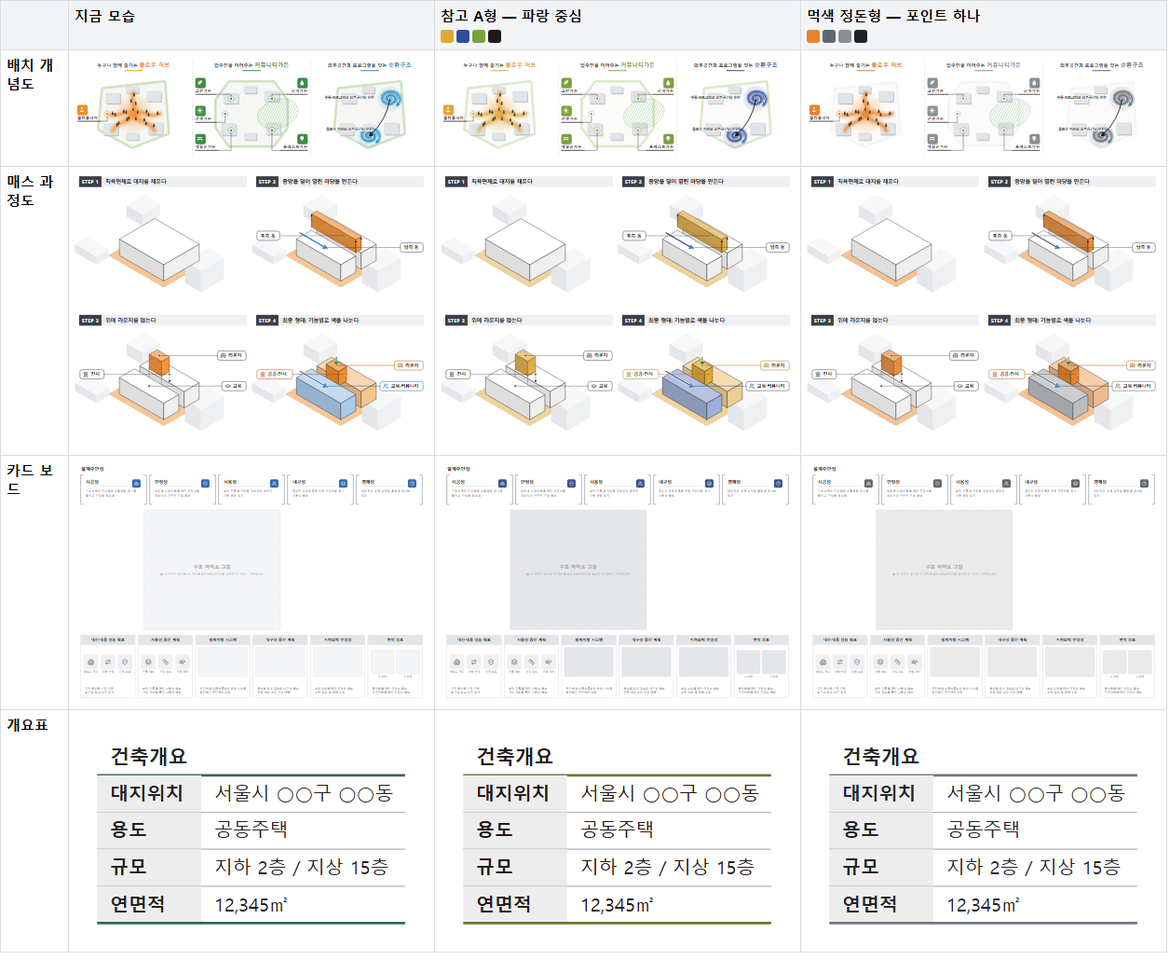
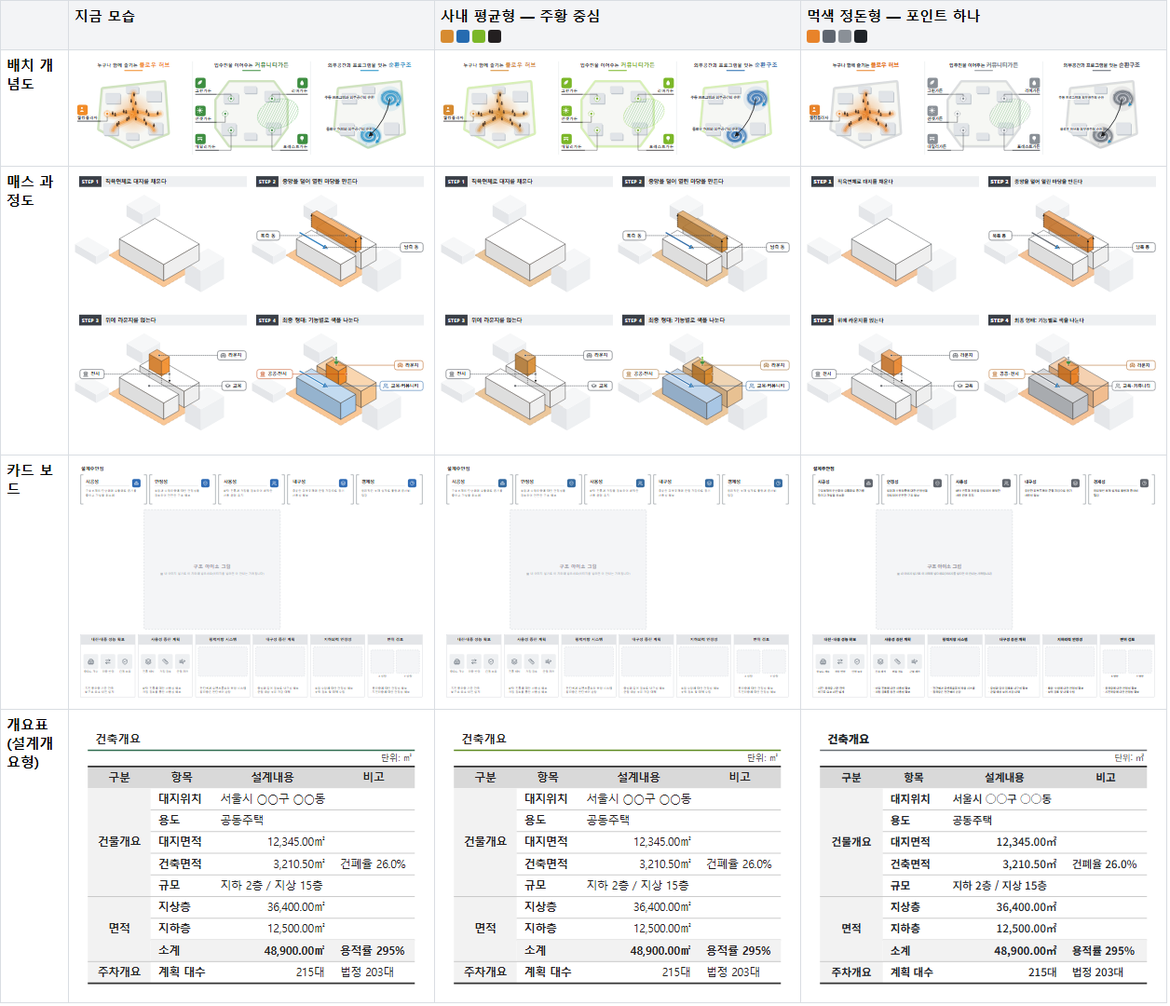
[Auto-Backup] 2026-10-26 16:20:53 KST - 11 files changed

diff --git a/src/conceptDiagram/svgedit.js b/src/conceptDiagram/svgedit.js
@@ -17,6 +17,7 @@ import { dimSvg, DIM_COLOR, DIM_DEFAULT_TEXT } from './dim';
 import { ICON_NAMES, CHIP_SHAPES, iconChipSvg } from './icons';
 import { normalizeTable, tableSvg, tableLayout, SAMPLE_TABLE, TABLE_COLOR } from './table';
 import { imageFx } from './imgfx';
+import { applyTheme } from './theme';
 import { northSvg, scaleBarSvg, normalizeScale, scaleBarHeight, NORTH_STYLES, SYMBOL_COLOR } from './symbols';
 
 const LEAF = new Set(['path', 'line', 'polyline', 'polygon', 'rect', 'circle', 'ellipse', 'text']);
@@ -104,10 +105,10 @@ export function rawSetText(sh, text) {
   });
   return { ...sh, el };
 }
-export function appendShapes(svg, shapes) {
+export function appendShapes(svg, shapes, themer) {
   if (!shapes || !shapes.length) return svg;
   const end = svg.lastIndexOf('</svg>'); if (end < 0) return svg;
-  return svg.slice(0, end) + shapes.map(shapeSvg).join('') + svg.slice(end);
+  return svg.slice(0, end) + shapes.map(shapeSvg).map((x) => (themer ? themer(x) : x)).join('') + svg.slice(end);
 }
 // 화면 한가운데(box=[x,y,w,h])에 놓을 새 도형의 기본값
 export function newShape(kind, box, scale = 1) {
@@ -167,12 +168,13 @@ const tableTag = (a, interactive) => tableSvg(tableOf(a), { id: a.id, interactiv
 const northTag = (a, interactive) => northSvg({ cx: a.x + a.w / 2, cy: a.y + a.w / 2, size: a.w, color: a.fill, rot: a.rot || 0, style: NORTH_STYLES.includes(a.style) ? a.style : 'circle', id: a.id, interactive });
 const scaleTag = (a, interactive) => scaleBarSvg({ x: a.x, y: a.y, w: a.w, segs: a.segs, total: a.total, unit: a.unit, size: a.size || 14, color: a.fill, id: a.id, interactive });
 const addTag = (a, interactive) => a.kind === 'dim' ? dimTag(a, interactive) : a.kind === 'north' ? northTag(a, interactive) : a.kind === 'scale' ? scaleTag(a, interactive) : a.kind === 'badge' ? badgeTag(a, interactive) : a.kind === 'callout' ? calloutTag(a, interactive) : a.kind === 'icon' ? iconTag(a, interactive) : a.kind === 'table' ? tableTag(a, interactive) : imgTag(a, interactive);
-function insertAdds(svg, _els, adds, interactive) {
+function insertAdds(svg, _els, adds, interactive, themer) {
   if (!adds || !adds.length) return svg;
   const valid = adds.filter((a) => a && ((a.href && a.kind === 'image') || a.kind === 'badge' || a.kind === 'callout' || a.kind === 'dim' || a.kind === 'icon' || a.kind === 'table' || a.kind === 'north' || a.kind === 'scale'));
   if (!valid.length) return svg;
-  const back = valid.filter((a) => a.behind).map((a) => addTag(a, interactive)).join('');
-  const front = valid.filter((a) => !a.behind).map((a) => addTag(a, interactive)).join('');
+  const tag = (a) => { const x = addTag(a, interactive); return themer ? themer(x) : x; };
+  const back = valid.filter((a) => a.behind).map(tag).join('');
+  const front = valid.filter((a) => !a.behind).map(tag).join('');
   let out = svg;
   const end = out.lastIndexOf('</svg>');
   if (front && end >= 0) out = out.slice(0, end) + front + out.slice(end);
@@ -203,17 +205,20 @@ export function opTransformStr(op) {
 }
 
 // 고친 내용을 그림에 입힌다. opts.ids 가 참이면 편집 화면용: 요소마다 data-eid 를 달고, 얇은 선에는 눌리기 쉽게 보이지 않는 굵은 선을 덧댄다.
+// opts.theme(스타일 안 id): 내가 새로 넣거나 복사해 붙인 도형(shapes)·부속(adds)에도 같은 안의 색·글꼴을 입힌다. 그림 본체는 호출한 쪽이 이미 입혀서 넘긴다(렌더 → 안 → 수정 순서).
+// opts.orig: 편집 화면용 — 안이 입혀진 곳마다 원래 값을 data-o-* 로 남긴다(theme.js 의 restoreOriginals 로 되돌림).
 // 반환: { svg, ok(구조가 같아 적용했는가), sig, els }
 export function applyEdits(svg0, edits, opts = {}) {
   const baseScan = scanSvg(svg0); const sig = baseScan.sig; const baseLeaf = baseScan.els.filter((e) => e.kind === 'e').length;
   const shapes = edits && edits.shapes && edits.shapes.length ? edits.shapes : null;
-  const svg = shapes ? appendShapes(svg0, shapes) : svg0;                // 내가 그린 도형은 맨 끝에 붙여 다른 요소 번호가 바뀌지 않게 한다
+  const themer = opts.theme ? (x) => applyTheme(x, opts.theme, { orig: !!opts.orig }) : null;
+  const svg = shapes ? appendShapes(svg0, shapes, themer) : svg0;        // 내가 그린 도형은 맨 끝에 붙여 다른 요소 번호가 바뀌지 않게 한다
   const els = shapes ? scanSvg(svg).els : baseScan.els;
   const ok = !edits || edits.sig === undefined || edits.sig === sig;
   const ops = ok && edits ? edits.ops || {} : {};
   const interactive = !!opts.ids;
   const adds = edits && edits.adds && edits.adds.length ? edits.adds : null;
-  if (!interactive && !Object.keys(ops).length) return { svg: insertAdds(svg, els, adds, false), ok, sig, els, baseLeaf };
+  if (!interactive && !Object.keys(ops).length) return { svg: insertAdds(svg, els, adds, false, themer), ok, sig, els, baseLeaf };
   let out = ''; let pos = 0;
   for (const el of els) {
     const op = ops[el.id];
@@ -231,6 +236,7 @@ export function applyEdits(svg0, edits, opts = {}) {
       attrs['data-eid'] = el.id;
       if (el.self && ['line', 'path', 'polyline'].includes(tag) && !(op && op.del)) { // 눌리기 쉽게: 같은 모양의 투명한 굵은 선
         const hit = { ...attrs, fill: 'none', stroke: 'transparent', 'stroke-width': '12', 'stroke-dasharray': null, 'stroke-linecap': 'round', 'pointer-events': 'stroke', 'data-hit': '1', 'marker-start': null, 'marker-end': null, 'marker-mid': null, opacity: null };
+        Object.keys(hit).forEach((k) => { if (k.startsWith('data-o-')) delete hit[k]; }); // 원래 색 표시는 눌림용 투명 선에 옮기지 않는다(복원 때 투명이 풀리지 않게)
         extra = buildTag(tag, hit, true);
       }
     }
@@ -241,7 +247,7 @@ export function applyEdits(svg0, edits, opts = {}) {
     }
   }
   out += svg.slice(pos);
-  return { svg: insertAdds(out, els, adds, interactive), ok, sig, els, baseLeaf };
+  return { svg: insertAdds(out, els, adds, interactive, themer), ok, sig, els, baseLeaf };
 }
 
 // ── 고친 내용 만들기(불변) ──

diff --git a/src/ConceptDiagram.jsx b/src/ConceptDiagram.jsx
@@ -322,9 +322,12 @@ export default function ConceptDiagram({ active = true, addToast, apiFetch }) {
   const rendered = useMemo(() => {
     if (!result) return null;
     try {
-      const r = renderThemed(result.type, result.spec, result.baseImage ? { baseImage: result.baseImage } : undefined, pg.theme); // 안(스타일)은 그린 직후에 입힌다 — 손으로 고친 내용(edits)은 그 위에 덮인다
-      if (result.type !== 'sketch' && hasEdits(result.edits)) return { ...r, svg: applyEdits(r.svg, result.edits).svg, baseSvg: r.svg, error: null }; // 구조형 결과: 도형을 손으로 고친 내용(색·위치·곡선·선 종류)
-      return { ...r, error: null };
+      const r0 = renderSpec(result.type, result.spec, result.baseImage ? { baseImage: result.baseImage } : undefined);
+      const themed = !!pg.theme && pg.theme !== 'current';
+      const r = themed ? { ...r0, svg: applyTheme(r0.svg, pg.theme) } : r0; // 안(스타일)은 그린 직후에 입힌다 — 손으로 고친 내용(edits)은 그 위에 덮인다
+      const editBase = themed && result.type !== 'sketch' ? applyTheme(r0.svg, pg.theme, { orig: true }) : undefined; // 편집 화면용: 안이 입혀진 곳마다 원래 값 표시(data-o-*)를 남긴다(복사한 요소가 원래 색으로 돌아가도록)
+      if (result.type !== 'sketch' && hasEdits(result.edits)) return { ...r, svg: applyEdits(r.svg, result.edits, { theme: pg.theme }).svg, baseSvg: r.svg, editBase, error: null }; // 구조형 결과: 도형을 손으로 고친 내용(색·위치·곡선·선 종류). 내가 넣은 도형·부속에도 같은 안을 입힌다
+      return { ...r, ...(editBase ? { editBase } : {}), error: null };
     } catch (e) { return { svg: '', width: 0, height: 0, error: e.message }; }
   }, [result, pg.theme]); // eslint-disable-line react-hooks/exhaustive-deps
 
@@ -606,7 +609,7 @@ export default function ConceptDiagram({ active = true, addToast, apiFetch }) {
         else if (r.type === 'site') spec.cols = bestCols(Math.max(1, (spec.panels || []).length), aspect, SITE_PANEL_W, SITE_PANEL_H, 3);
         else if (r.type === 'massing') spec.cols = bestCols(Math.max(1, (spec.steps || []).length), aspect, MASSING_PANEL_W, MASSING_PANEL_H, 3);
         const eng = renderThemed(r.type, spec, r.baseImage ? { baseImage: r.baseImage } : undefined, tid);
-        return { id, render: { svg: edited ? applyEdits(eng.svg, r.edits).svg : eng.svg }, caption: edited ? '' : (r.spec?.title || ''), cropTop: r.type === 'sketch' ? sketchContentTop(spec) : 0, crop: Array.isArray(r.crop) ? r.crop : null };
+        return { id, render: { svg: edited ? applyEdits(eng.svg, r.edits, { theme: tid }).svg : eng.svg }, caption: edited ? '' : (r.spec?.title || ''), cropTop: r.type === 'sketch' ? sketchContentTop(spec) : 0, crop: Array.isArray(r.crop) ? r.crop : null };
       });
       const preview = composePage(page, items, { ...base, preview: true, selected: selCell });
       const out = wantOut ? composePage(page, items, base) : null; // 저장용(칸 테두리·빈 칸 표시 없음)
@@ -623,7 +626,7 @@ export default function ConceptDiagram({ active = true, addToast, apiFetch }) {
       if (pageOn) { const o = composeAll(pg.layoutId, pg.custom, true, null, id)?.out; return o ? { svg: o.svg, w: o.width, h: o.height } : null; }
       if (!result) return null;
       const r = renderThemed(result.type, result.spec, result.baseImage ? { baseImage: result.baseImage } : undefined, id);
-      return { svg: result.type !== 'sketch' && hasEdits(result.edits) ? applyEdits(r.svg, result.edits).svg : r.svg, w: r.width, h: r.height };
+      return { svg: result.type !== 'sketch' && hasEdits(result.edits) ? applyEdits(r.svg, result.edits, { theme: id }).svg : r.svg, w: r.width, h: r.height };
     } catch { return null; }
   };
   const themeThumbs = useMemo(() => (themeOpen ? Object.fromEntries(THEMES.map((t) => [t.id, thumbFor(t.id)])) : {}), [themeOpen, result, pageOn, pg, cells]); // eslint-disable-line react-hooks/exhaustive-deps
@@ -1711,7 +1714,7 @@ export default function ConceptDiagram({ active = true, addToast, apiFetch }) {
           )}
           {result?.type !== 'sketch' && rendered?.svg && (
             <div data-testid="inline-view" onPointerDownCapture={() => { ctxRef.current = 'sketch'; }}>
-              <SvgEditor sideHost={leftHidden ? null : sideHost} sideOpen={leftTab === 'shape'} onOpenSide={() => setLeftTab('shape')} onPick={() => setLeftTab('shape')} onCopy={onEditorCopy} pasteSignal={pasteSig} onAddImageClick={() => myImgFileRef.current?.click()} ptInfo={ptInfoOf(pageModel)} svg={rendered.baseSvg || rendered.svg} edits={result.edits} onEdits={onSvgEdits} fields={fields} maxWidth={rendered.width} disabled={busy || reading}
+              <SvgEditor sideHost={leftHidden ? null : sideHost} sideOpen={leftTab === 'shape'} onOpenSide={() => setLeftTab('shape')} onPick={() => setLeftTab('shape')} onCopy={onEditorCopy} pasteSignal={pasteSig} onAddImageClick={() => myImgFileRef.current?.click()} ptInfo={ptInfoOf(pageModel)} svg={rendered.editBase || rendered.baseSvg || rendered.svg} themeId={pg.theme} edits={result.edits} onEdits={onSvgEdits} fields={fields} maxWidth={rendered.width} disabled={busy || reading}
                 shortcutsEnabled={() => (!pageOn || ctxRef.current !== 'page') && !themeOpen}
                 onTextEdit={(f, v) => { const h = textHist.current; h.past = [...h.past.slice(-49), { ver: result.ver, spec: result.spec, edits: result.edits }]; h.future = []; setResult((r) => ({ ...r, spec: setByPath(r.spec, f.path, v), isReadPreview: false })); }}
                 onMiss={() => addToast?.('info', '이 글자는 자동으로 만들어진 글자라 여기서 바로 고칠 수 없습니다', '왼쪽 “글자 수정” 목록에서 고칠 수 있는 글자인지 확인해 보세요.')} />

diff --git a/src/SvgEditor.jsx b/src/SvgEditor.jsx
@@ -2,6 +2,7 @@ import React, { useCallback, useEffect, useLayoutEffect, useMemo, useRef, useSta
 import { createPortal } from 'react-dom';
 import { applyEdits, hasEdits, editReplaceImage, editCropImage, editUpdateAdd, editRemoveAdd, editAddShape, editUpdateShape, editRemoveShape, newShape, rawShift, rawSetText, editSet, editMove, editMoveTo, editDelete, editRestore, editAsPath, editTranslate, editScale, editLineSpacing, LH_MIN, LH_MAX, addScalePatch, SCALE_MIN, SCALE_MAX, DASH_PRESETS, DASH_GAP_MIN, DASH_GAP_MAX, dashKind, dashNumsEven, dashSameParts, dashGapFactor, dashScaled, dashPatch, parsePath, pathD, pathNodes, pathMoveNode, pathMoveCtrl, pathToggleCurve, pathAddNode, pathDelNode, parsePoints, pointsStr, lineToCurveD } from './conceptDiagram/svgedit';
 import { normText, pickByText, responsiveSvg } from './conceptDiagram/inlineText';
+import { restoreOriginals } from './conceptDiagram/theme';
 import { textAtPoint, InlineInput, textUnitSize, PtReadout } from './InlineText';
 import { schedulePaste, markInternalCopy } from './conceptDiagram/clip';
 import { readImageFile, bakeCrop, imageSize } from './conceptDiagram/imgio';
@@ -54,8 +55,8 @@ function Colors({ value, onChange, none, onNone }) {
 
 let SV_CLIP = null; let SV_PASTE_N = 0; // 복사해 둔 요소(다른 칸의 그림에도 붙일 수 있게 모듈에 둔다)와 연속 붙여넣기 횟수
 
-export default function SvgEditor({ svg, edits, onEdits, fields, onTextEdit, onMiss, maxWidth, disabled, shortcutsEnabled, ptInfo, onAddImageClick, onCopy, pasteSignal, sideHost, sideOpen, onOpenSide, onPick }) {
-  const view = useMemo(() => applyEdits(svg, edits, { ids: true }), [svg, edits]);
+export default function SvgEditor({ svg, themeId, edits, onEdits, fields, onTextEdit, onMiss, maxWidth, disabled, shortcutsEnabled, ptInfo, onAddImageClick, onCopy, pasteSignal, sideHost, sideOpen, onOpenSide, onPick }) {
+  const view = useMemo(() => applyEdits(svg, edits, { ids: true, theme: themeId, orig: true }), [svg, edits, themeId]); // 안(스타일)을 따라가는 도형·부속에는 원래 색 표시(data-o-*)를 남긴다(복사 때 되돌림)
   const html = useMemo(() => ({ __html: responsiveSvg(view.svg) }), [view.svg]); // 같은 객체여야 React 가 그림을 매번 다시 만들지 않는다(다시 만들면 표시·마우스 올림이 사라진다)
   const E = useMemo(() => (edits && edits.sig === view.sig ? edits : { sig: view.sig, ops: {}, ...(edits?.adds ? { adds: edits.adds } : {}), ...(edits?.shapes ? { shapes: edits.shapes } : {}) }), [edits, view.sig]); // 구조가 달라져도 내가 넣은 이미지는 남긴다
   const stale = !!edits && edits.sig !== view.sig && hasEdits(edits);
@@ -535,12 +536,17 @@ export default function SvgEditor({ svg, edits, onEdits, fields, onTextEdit, onM
     if (m.isIdentity) c.removeAttribute('transform'); else c.setAttribute('transform', `matrix(${[m.a, m.b, m.c, m.d, m.e, m.f].map((v) => Math.round(v * 10000) / 10000).join(' ')})`);
     const st = getComputedStyle(el0); const tg = el0.tagName.toLowerCase();
     const bake = (a, v) => { if (!c.hasAttribute(a) && v !== '' && v != null) c.setAttribute(a, v); };
-    bake('fill', st.fill === 'none' ? 'none' : hexOf(st.fill)); if (tg !== 'text') { bake('stroke', st.stroke === 'none' ? 'none' : hexOf(st.stroke)); if (st.stroke !== 'none') { bake('stroke-width', String(num(st.strokeWidth, 1))); if (st.strokeDasharray && st.strokeDasharray !== 'none') bake('stroke-dasharray', st.strokeDasharray.replace(/px/g, '').replace(/,/g, ' ')); bake('stroke-linecap', st.strokeLinecap); } }
+    const inherited = (a, v) => { // 안이 입혀진 조상에게서 물려받은 값이면 입혀지기 전 값으로(붙여넣은 뒤 안이 한 번 더 입혀지지 않게)
+      if (c.hasAttribute(a)) return v;
+      for (let n = el0.parentNode; n && n.nodeType === 1 && n.nodeName.toLowerCase() !== 'svg'; n = n.parentNode) { if (n.hasAttribute(a)) { const o = n.getAttribute(`data-o-${a}`); return o != null ? o : v; } }
+      return v;
+    };
+    bake('fill', st.fill === 'none' ? 'none' : inherited('fill', hexOf(st.fill))); if (tg !== 'text') { bake('stroke', st.stroke === 'none' ? 'none' : inherited('stroke', hexOf(st.stroke))); if (st.stroke !== 'none') { bake('stroke-width', String(num(st.strokeWidth, 1))); if (st.strokeDasharray && st.strokeDasharray !== 'none') bake('stroke-dasharray', st.strokeDasharray.replace(/px/g, '').replace(/,/g, ' ')); bake('stroke-linecap', st.strokeLinecap); } }
     if (st.opacity !== '1') bake('opacity', st.opacity);
     if (tg === 'text') { bake('font-family', st.fontFamily); bake('font-size', String(num(st.fontSize, 14))); bake('font-weight', st.fontWeight); bake('text-anchor', st.textAnchor); }
     const defs = []; let k = 0;
     [...c.attributes].forEach((a) => { const mm = /url\(["']?#([^"')]+)["']?\)/.exec(a.value); if (!mm) return; const def = root.querySelector(`[id="${mm[1]}"]`); if (!def) return; const nid = `cp${Date.now().toString(36)}${k++}_${mm[1]}`; const dc = def.cloneNode(true); dc.setAttribute('id', nid); defs.push(dc.outerHTML); c.setAttribute(a.name, a.value.replace(mm[1], nid)); });
-    return { kind: 'raw', defs: defs.length ? `<defs>${defs.join('')}</defs>` : '', el: c.outerHTML };
+    return { kind: 'raw', defs: defs.length ? restoreOriginals(`<defs>${defs.join('')}</defs>`, themeId) : '', el: restoreOriginals(c.outerHTML, themeId) };
   };
   const copySel = () => {
     const items = [];

diff --git a/src/SketchEditor.jsx b/src/SketchEditor.jsx
@@ -583,7 +583,7 @@ export default function SketchEditor({ spec, onChange, disabled, shortcutsEnable
           <div style={sec}>
             <span style={title}>전체</span>
             <button style={smallBtn(false)} onClick={selectAllText} disabled={norm.memos.filter(isPlainMemo).length < 2} data-testid="sk-select-text" title="그림 속 일반 글자를 모두 골라 크기·글씨체·정렬을 한꺼번에 바꿉니다">글자 모두 선택</button>
-            <p style={{ fontSize: 11, color: 'var(--text-tertiary, #64748b)', margin: 0, lineHeight: 1.6 }}>그림의 화살표·선·도형·글자를 <b>클릭</b>하면 여기서 속성을 바꿀 수 있고, <b>Shift·Ctrl+클릭</b>으로 여러 개를 고르거나 빈 곳을 <b>끌어</b> 상자로 고를 수 있고, <b>끌어서 옮길</b> 수 있습니다. 선택하면 나타나는 <b>네모 점은 크기</b>, <b>동그라미는 화살표 끝점</b>, <b>큰 마름모는 S자 변곡점(자유롭게 이동)</b>, <b>작은 빈 마름모는 휘는 정도</b> 조절입니다.<br />Shift: 수평·수직 고정 · Alt: 자석 끄기 · 방향키: 미세 이동<br /><b>안내선</b>: 끌면 다른 요소의 변·가운데선, 그림 가운데, 좌우·상하 <b>대칭 위치</b>에 가까워질 때 안내선(분홍=정렬, 초록=중심축, 청록=대칭)이 뜨며 자동으로 붙습니다. 화살표 끝을 끌면 반대쪽 끝과 수평·수직으로 맞춰집니다.<br />Ctrl+C / Ctrl+V: 복사·붙여넣기 · Ctrl+D: 복제 · Ctrl+X: 잘라내기 · Delete: 삭제 · Ctrl+Z: 되돌리기</p>
+            <p style={{ fontSize: 11, color: 'var(--text-tertiary, #64748b)', margin: 0, lineHeight: 1.6 }}>그림의 화살표·선·도형·글자를 <b>클릭</b>하면 여기서 속성을 바꿀 수 있고, <b>Shift·Ctrl+클릭</b>으로 여러 개를 고르거나 빈 곳을 <b>끌어</b> 상자로 고를 수 있고, <b>끌어서 옮길</b> 수 있습니다. 선택하면 나타나는 <b>네모 점은 크기</b>, <b>동그라미는 화살표 끝점</b>, <b>큰 마름모는 S자 변곡점(자유롭게 이동)</b>, <b>작은 빈 마름모는 휘는 정도</b> 조절입니다.<br /><b>글자</b>(제목·부제·범례·핵심 메시지 포함)는 그림 위에서 <b>더블클릭</b>해 바로 고칩니다.<br />Shift: 수평·수직 고정 · Alt: 자석 끄기 · 방향키: 미세 이동<br /><b>안내선</b>: 끌면 다른 요소의 변·가운데선, 그림 가운데, 좌우·상하 <b>대칭 위치</b>에 가까워질 때 안내선(분홍=정렬, 초록=중심축, 청록=대칭)이 뜨며 자동으로 붙습니다. 화살표 끝을 끌면 반대쪽 끝과 수평·수직으로 맞춰집니다.<br />Ctrl+C / Ctrl+V: 복사·붙여넣기 · Ctrl+D: 복제 · Ctrl+X: 잘라내기 · Delete: 삭제 · Ctrl+Z: 되돌리기</p>
             <label style={{ ...lab, flexDirection: 'row', alignItems: 'center', gap: 6 }}><input type="checkbox" checked={norm.showLegend} onChange={(e) => setGlobal({ showLegend: e.target.checked })} />하단 범례 표시</label>
             <label style={{ ...lab, flexDirection: 'row', alignItems: 'center', gap: 6 }}><input type="checkbox" checked={norm.showNotes} onChange={(e) => setGlobal({ showNotes: e.target.checked })} />하단 핵심 메시지 표시</label>
             {norm.textBlock && (
@@ -594,16 +594,6 @@ export default function SketchEditor({ spec, onChange, disabled, shortcutsEnable
                 <div style={lab}>강조색<Colors value={norm.textBlock.accent} onChange={(c) => setGlobal({ textBlock: { ...norm.textBlock, accent: c } })} /></div>
               </div>
             )}
-            <label style={lab}>제목<input style={input} value={norm.title} onChange={(e) => setGlobal({ title: e.target.value }, 'title')} /></label>
-            <label style={lab}>부제<input style={input} value={norm.subtitle} onChange={(e) => setGlobal({ subtitle: e.target.value }, 'subtitle')} /></label>
-            <label style={lab}>범례: 화살표<input style={input} value={norm.legend.wind} onChange={(e) => setGlobal({ legend: { ...norm.legend, wind: e.target.value } }, 'lgw')} /></label>
-            <label style={lab}>범례: 개구부<input style={input} value={norm.legend.opening} onChange={(e) => setGlobal({ legend: { ...norm.legend, opening: e.target.value } }, 'lgo')} /></label>
-            <label style={lab}>범례: 코어<input style={input} value={norm.legend.core} onChange={(e) => setGlobal({ legend: { ...norm.legend, core: e.target.value } }, 'lgc')} /></label>
-            {[0, 1].map((i) => (
-              <label key={i} style={lab}>핵심 메시지 {i + 1}
-                <input style={input} value={norm.notes[i] || ''} onChange={(e) => { const n = [...norm.notes]; while (n.length < 2) n.push(''); n[i] = e.target.value; setGlobal({ notes: n.filter((t, k) => t || k < i) }, `note${i}`); }} />
-              </label>
-            ))}
           </div>
         )}
 

diff --git a/src/conceptDiagram/theme.js b/src/conceptDiagram/theme.js
@@ -2,10 +2,11 @@
 // 순수 함수(DOM 없음). 항상 '새로 그린 SVG' 에서 시작한다(이미 안이 입혀진 SVG 에 다시 입히지 않는다) — 호출 순서: renderSpec → applyTheme → applyEdits.
 import { ENGINE_FONT, fontCssOf } from './fonts';
 
+// 2026-10-26: 안 2번을 '참고 A형(파랑 중심)'에서 '사내 평균형(주황 중심)'으로 바꿨다(id blue → avg; 예전에 저장한 blue 는 모르는 값이라 current 로 동작).
 // a1 = 주황 계열 역할, a2 = 청·청록 계열 역할, a3 = 초록 계열 역할. ink = 아주 어두운 글자·선. fontId/ink 가 null 이면 건드리지 않는다.
 export const THEMES = [
   { id: 'current', label: '지금 모습', source: '', a1: null, a2: null, a3: null, ink: null, fontId: null, titleK: 1 },
-  { id: 'blue', label: '참고 A형 — 파랑 중심', source: '참고삽도 A형', a1: '#DFA837', a2: '#2F4E9A', a3: '#7BA23A', ink: '#231815', fontId: 'pretendard', titleK: 1.1 },
+  { id: 'avg', label: '사내 평균형 — 주황 중심', source: '사내 참고사례 PDF 728건의 포인트색 평균(주황 36%·파랑 24%·초록 18% 쓰임)', a1: '#D78B31', a2: '#266BB0', a3: '#7BB728', ink: '#231F20', fontId: 'pretendard', titleK: 1 },
   { id: 'mono', label: '먹색 정돈형 — 포인트 하나', source: '', a1: '#E8832A', a2: '#5F6670', a3: '#8A9097', ink: '#1F2328', fontId: 'noto', titleK: 1 },
 ];
 export const themeById = (id) => THEMES.find((t) => t.id === id) || THEMES[0];
@@ -42,16 +43,37 @@ function mapColor(hex, th) {
 }
 
 // 태그 단위로 훑어 fill·stroke·stop-color·flood-color 와 style 안의 #RRGGBB 만 바꾼다. 편집 손잡이(data-handle)·편집 표시(data-ui)·히트 영역 태그는 건드리지 않는다.
-export function applyTheme(svg, themeId) {
+// opts.orig 가 참이면(편집 화면용) 바뀐 태그마다 원래 값을 data-o-fill·data-o-stroke·data-o-stop-color·data-o-flood-color·data-o-style, 글꼴을 바꾼 태그에는 data-o-ff="1" 로 태그 끝에 남긴다.
+// 복사·붙여넣기한 요소(raw)를 만들 때 이 표시로 '안이 입혀지기 전의 값'을 되찾는다(restoreOriginals). 저장·내보내기용 그림에는 표시를 달지 않는다.
+const COLOR_ATTR = /\b(fill|stroke|stop-color|flood-color)="(#[0-9a-fA-F]{6})"/g;
+export function applyTheme(svg, themeId, opts = {}) {
   const th = themeById(themeId); const src = String(svg ?? '');
   if (th.id === 'current') return src;
+  const orig = !!opts.orig; const fontCss = th.fontId ? fontCssOf(th.fontId) : null;
   const swap = (v) => v.replace(/#[0-9a-fA-F]{6}\b/g, (c) => mapColor(c, th));
   let out = src.replace(/<[^>]+>/g, (tag) => {
     if (/data-handle=|data-ui=|class="hit"/.test(tag)) return tag;
-    return tag
-      .replace(/\b(fill|stroke|stop-color|flood-color)="(#[0-9a-fA-F]{6})"/g, (m0, k, v) => `${k}="${HEX.test(v) ? swap(v) : v}"`)
-      .replace(/\bstyle="([^"]*)"/g, (m0, v) => `style="${swap(v)}"`);
+    const marks = [];
+    let t = tag
+      .replace(COLOR_ATTR, (m0, k, v) => { const nv = HEX.test(v) ? swap(v) : v; if (orig && nv !== v) marks.push(`data-o-${k}="${v}"`); return `${k}="${nv}"`; })
+      .replace(/\bstyle="([^"]*)"/g, (m0, v) => { const nv = swap(v); if (orig && nv !== v) marks.push(`data-o-style="${v}"`); return `style="${nv}"`; });
+    if (fontCss && t.includes(ENGINE_FONT)) { t = t.split(ENGINE_FONT).join(fontCss); if (orig) marks.push('data-o-ff="1"'); }
+    return marks.length ? t.replace(/(\s*\/?>)$/, ` ${marks.join(' ')}$1`) : t;
   });
-  if (th.fontId) out = out.split(ENGINE_FONT).join(fontCssOf(th.fontId));
+  if (fontCss) out = out.split(ENGINE_FONT).join(fontCss); // 태그 밖(<style> 글 등)에 있는 글꼴 값
   return out;
+}
+
+// applyTheme(…, { orig: true }) 로 달린 원래 값 표시(data-o-*)를 써서 안이 입혀지기 전의 마크업으로 되돌리고 표시를 지운다. 표시가 없으면 그대로.
+export function restoreOriginals(markup, themeId) {
+  const src = String(markup ?? ''); if (!src.includes('data-o-')) return src;
+  const ff = themeById(themeId).fontId ? fontCssOf(themeById(themeId).fontId) : null;
+  return src.replace(/<[^>]+>/g, (tag) => {
+    if (!tag.includes('data-o-')) return tag;
+    const o = {}; let t = tag.replace(/\sdata-o-([a-z-]+)="([^"]*)"/g, (m0, k, v) => { o[k] = v; return ''; });
+    ['fill', 'stroke', 'stop-color', 'flood-color'].forEach((k) => { if (o[k] !== undefined) t = t.replace(new RegExp(String.raw`(\s)${k}="[^"]*"`), (m0, sp) => `${sp}${k}="${o[k]}"`); });
+    if (o.style !== undefined) t = t.replace(/(\s)style="[^"]*"/, (m0, sp) => `${sp}style="${o.style}"`);
+    if (o.ff !== undefined && ff) t = t.split(ff).join(ENGINE_FONT);
+    return t;
+  });
 }

diff --git a/src/ThemeCompare.jsx b/src/ThemeCompare.jsx
@@ -39,7 +39,7 @@ export default function ThemeCompare({ open, onClose, themeId, onPick, thumbs })
         <div style={{ display: 'flex', alignItems: 'center', justifyContent: 'space-between', gap: 12 }}>
           <div>
             <div id="theme-dialog-title" style={{ fontSize: 15, fontWeight: 700, color: 'var(--ink)' }}>스타일 안 비교</div>
-            <div style={{ fontSize: 12, color: 'var(--ink-soft)', marginTop: 2 }}>같은 그림을 안마다 색·글씨체·제목 크기(페이지 모드)만 바꿔 보여 줍니다. 눌러서 적용하고, “지금 모습”을 누르면 원래대로 돌아갑니다. 구조형 결과에서 직접 칠한 색과 손으로 고친 내용은 그대로 남고, 손스케치 결과는 직접 고른 색도 같은 계열이면 같이 바뀝니다.</div>
+            <div style={{ fontSize: 12, color: 'var(--ink-soft)', marginTop: 2 }}>같은 그림을 안마다 색·글씨체·제목 크기(페이지 모드)만 바꿔 보여 줍니다. 눌러서 적용하고, “지금 모습”을 누르면 원래대로 돌아갑니다. 구조형 결과에서 그림 본체에 직접 칠한 색과 손으로 고친 내용은 그대로 남고, 새로 넣거나 복사해 붙인 도형과 손스케치 결과는 직접 고른 색도 같은 계열이면 같이 바뀝니다.</div>
           </div>
           <button type="button" ref={closeRef} onClick={onClose} data-testid="theme-close" style={{ padding: '6px 12px', borderRadius: 7, border: '1px solid var(--line-strong)', background: 'var(--surface)', color: 'var(--ink)', cursor: 'pointer', fontSize: 12.5 }}>닫기</button>
         </div>

diff --git a/docs/Dev Log/2026-10-19.md b/docs/Dev Log/2026-10-19.md
@@ -395,4 +395,6 @@
 - **스타일 안(색·글씨체·위계) 비교·적용**(사용자: "다 만든 뒤에 안을 비교해 보면서 고르고 싶다" → 명세 `docs/superpowers/specs/2026-10-26-스타일안-design.md`·계획 `docs/superpowers/plans/2026-10-26-스타일안-plan.md` 승인 후 구현): **근거** — 사내 참고사례 폴더(PDF 728·.ai 287·PPTX 37, 7부)에서 주황 포인트가 가장 흔하고(36%) 그다음이 파랑(24%), 쪽의 채도 높은 면은 2.4%, 본문 대비 1.5·2배 위계. **변경** — `theme.js`(안 3개 `current`·`blue`·`mono`, `applyTheme`: 색 계열(주황 15~70°·초록 70~165°·청 165~255°)을 앱 기준색과의 명도·채도 차이를 유지한 채 안의 색으로, 아주 어두운 글자색은 ink 로, 편집 손잡이(`data-handle`)·이미지 데이터·url 참조는 그대로, 글꼴 치환), `fontcheck.js`(캔버스 폭 비교로 글꼴 설치 확인), `page.js`(`composePage` 옵션 `inkColor`·`titleK`), `ThemeCompare.jsx`(비교 창), `ConceptDiagram.jsx`(`pg.theme` 저장·`renderThemed`: 그린 직후 안을 입히고 그 위에 손으로 고친 내용을 덮음 / 쪽 조립 `composeAll` 5번째 인자 `themeOv` / 비교 버튼·썸네일), `SketchEditor.jsx`(편집 화면에도 안 적용). 계획과 다르게 정한 것: 안 id 는 결과별이 아니라 `pg.theme` 한 곳, 무채색 판정 보정(어두운 청회색 글자색 `#1f242b` 가 청색 계열로 오분류되던 것), '지금 모습'은 글씨체를 건드리지 않음, 글꼴 설치 확인은 캔버스 폭 비교. **시험** — 회귀 점검 1229 → 1298개 통과(안 3개 값·기준색 치환·명도 차이·무채색·손잡이 보존·구조 지문 같음·글꼴·모든 종류 × 안·직접 칠한 색 보존·쪽 조립 옵션·안마다 쪽 그림이 다름). 테스트 화면: 비교 창에 카드 3장, 블루·먹색 선택 시 쪽 그림과 단독 결과 그림의 색·글꼴이 바뀌고 지금 모습으로 되돌리면 완전히 같아짐, 선택이 `cd_page_v1` 에 저장됨, 콘솔 오류 없음. **못 한 것** — 실제 사용자 PC 에서 Noto Sans KR 설치 여부 표시, 모든 종류를 눈으로 비교, 제목 크기 배율·글자색이 실제 쪽 제목에 먹는지 화면 확인(쪽 조립 시험으로만 확인).
 - **동선·구역 문법(7-6)과 개요표 설계개요형 반영**(사용자: "1번부터 이어서 해줘" — 사내 참고사례 분석 결과를 그리는 코드에 반영하는 첫 작업): **배경** — 분석(7부)은 문서에만 있고 생성 동작에는 연결돼 있지 않았다. **① 배치 개념도 `style:'line'`**(`siteConcept.js`): 컬러 선 굵기 중앙 1.5pt(A3 환산)·주 화살표 2.5~3pt·점선 35%·단색 구획 + 범례라는 관례를 패널 크기 비율(굵기 3.2, 흰 테두리 6.4)로 옮겨 선명한 선 + 화살촉 + 번호 배지 + 범례(label, 4개·8자까지)로 그림. 기존 번지는 띠(포스터)는 `style` 없으면 그대로(사용자가 쓰던 모양 유지). `spec.js`: SITE_SCHEMA 에 `style·dashed·no·label`, SITE_RULES 에 쓰는 때·색의 뜻(차량 빨강·보행 파랑·녹지 초록·주요 주황)·4개 이하, 글자 수정 목록에 범례. `diagram_edit.py`: `_instruct_prompt` 5번 규칙·`fallback_instruction` 에 같은 색 관례(**백엔드라 서버 재시작 필요**). **② 개요표 `style:'doc'`**(`table.js`): `normalizeTable` 이 doc 는 3~5열·`header`·`unit`, `tableGroups`(구분 칸 합침)·`isTotalRow`·`docSvg`(회색 머리글 띠 #D9D9D9, 구분 칸 #F2F2F2, 소계 줄 굵게+면, 숫자 오른쪽 정렬, 가는 선 + 위·아래 굵은 선), `tabledoc.js` 스키마·규칙·이미지 읽기 안내, 예시를 설계개요형으로 교체(`EXAMPLE_SPECS.table`), `TableEditor.jsx` 열 수·머리글·단위 폼, 종류 안내 카드 문구. **TDD** — 각 시험을 먼저 쓰고 실패 확인: 선 동선은 이전 코드로 잠깐 되돌려 11개 실패 확인 후 복원, 개요표는 12개 실패→통과, 백엔드 `check_fast.py` 2개 실패→통과. 기존 시험 3개는 예시·규칙 문구가 의도적으로 바뀌어 기대값을 고쳤다(개요표 예시 4행×2열→9행×4열 doc, 프롬프트 문구). **시험** — 회귀 점검 1298 → 1336개, `check_fast.py` 모두 통과. 전후 그림 `docs/렌더개선_전후/` 4장. **못 한 것** — 실제 AI 가 `style:'line'`·`doc` 를 규칙대로 쓰는지(실측 못 함), 도면 위 표시 지시문 변경은 서버 재시작 전까지 미반영·미시험(Gemini 호출 필요), 개요표 머리글·단위는 그림 위 더블클릭이 아니라 폼에서만 고침, 칸 안 줄바꿈·항목 글자 벌림 미구현, 화면(UI)에서 설계개요형 폼을 눌러 보는 확인은 아직 못 함.
 - **스타일 안 독립 검토(서브에이전트) 결과 반영**: Critical 0 / Important 6 / Minor 다수. 직접 확인해 등급을 다시 매기고 한 번에 고침. **고친 것(각각 시험을 먼저 쓰고 실패를 확인)** — ① 거의 흰 옅은 색(`#F6F7F4` 등)이 유채색으로 분류돼 mono 에서 녹지·대지 바탕·테두리가 모두 `#FBFBFB` 로 사라지던 것: 무채색 판정에 (명도>0.93 & 채도<0.5) 추가, 명도를 구간 선형 대응으로 변경(6개 실패→통과). ② 손스케치 편집 화면의 선택 틀·회전 손잡이 줄기·강조선(주황)이 안 색으로 바뀌던 것: `sketch.js` 편집 전용 표시에 `data-ui` 를 붙이고 `theme.js` 가 건너뜀(같은 시험). 이 과정에서 정규식에 역슬래시가 들어갈 때 도구가 `` 를 백스페이스 문자로 바꿔 넣는 사고가 있었고(시험이 잡음) 고친 뒤 관련 파일 6개에 제어문자가 없음을 확인. ③ 글꼴 설치 확인: 문서의 글꼴이 아니라 **SVG 이미지에서 실제로 먹는지**를 픽셀로 비교(`fontRendersInSvgImage`). 브라우저에서 직접 재 보니 이 PC 는 Pretendard 미설치 → 앞서 '앱에 내장돼 화면·PNG 에서 보인다'고 한 것은 틀렸음(그림은 시스템 글꼴만 씀) — 글씨체 목록 이름표·명세·안내 문서 정정, 비교 카드가 "대체 글꼴로 보입니다"를 정확히 표시. ④ 비교 창이 열린 동안 뒤 화면의 단축키(방향키·Delete = 칸 지우기·Ctrl+S 등)가 움직이던 것: 전역 키 처리·창 전체 단축키·두 편집기에 열림 상태 가드, 창에 `role="dialog"`·초점 이동·가두기·복원·Esc. 화면에서 열린 동안 키를 보내 뒤 화면이 안 변하고 닫은 뒤에는 원래대로 동작함을 확인. ⑤ 안의 글씨체가 쪽 설정 글씨체보다 우선해 선택칸이 먹지 않던 것: 쪽 설정에 "안의 글씨체가 적용 중" 안내(Ruling: 안의 글씨체 우선을 유지 — 안을 고르는 목적이 글씨체 포함이고, '지금 모습'으로 돌아가면 쪽 설정이 먹음 — 비용: 사용자가 안 적용 중에 글씨체 칸을 바꿔도 변화 없음). **고치지 않은 것(Ruling)** — I6 복사·붙여넣기한 요소와 새로 넣은 도형(화살표·글자·번호 마커)에 그때의 안 색이 굳어 안을 바꿔도 안 따라옴: 따라오게 하면 사용자가 직접 고른 색도 같이 바뀌므로 설계 결정이 필요 — 비용: 구조형 결과에서 안을 바꾼 뒤 새로 넣은 도형만 옛 안 색으로 남음(안 비교 창 안내 문구에 한계를 적음). **Minor(보류)** — 3자리 hex(`#222`·`#333`)는 안이 못 바꿈, 작은따옴표 속성·`<style>` 안 색·`data-fill`·6자리 hex 로 된 id 참조(`url(#9FB1DE)`) 같은 입력은 처리 한계(지금 렌더러는 이런 출력을 내지 않음), 색상각 15° 경계에서 결과가 급변, 제목 배율 소수점(19.800000000000004)이 위계 경고에 찍힘, 쪽 강조색(`pg.accent`)은 안을 따르지 않음, 썸네일 성능(카드를 누를 때마다 3장 재조립·큰 SVG 3개 재인코딩), 디자인 토큰 직접 숫자(모서리 7·3·999), `renderThemed` 주석 위치, 단독(쪽 아님) 모드와 쪽 모드의 새 글자 도형 글꼴 불일치, 시험 빈틈(`sketch`·`layout` 종류 미포함, `fontInstalled` node 시험은 항상 true, 명암비 시험 없음). **시험** — 회귀 점검 1345개 통과.
+- **사용자 결정 반영(서버 재시작 + 안 2번 교체)**: ① **백엔드 재시작** — 도면 위 표시 지시문의 색 관례(`diagram_edit.py`)를 반영하려고 사전 확인(ComfyUI 큐 비어 있음, 최근 24시간 생성 0건, 감시 스크립트 동작) 뒤 서버 프로세스(PID 12088)를 끝냈고 감시 스크립트가 15초 만에 새로 띄웠다(새 PID 16032, `/health` 200, 첫 화면 `index-5BJYavVS.js`, watchdog.log `꺼진 것을 확인 → 재시작 → 시작함`). **② 안 2번 `blue`(참고 A형) → `avg`(사내 평균형, 주황 중심)** — a1 `#D78B31`·a2 `#266BB0`·a3 `#7BB728`·ink `#231F20`·Pretendard·제목 배율 1. 시험을 새 값으로 먼저 고쳐 실패(7개)를 확인한 뒤 `theme.js` 를 바꿔 통과(1345개). 비교 시안 `docs/스타일안_시안/안3종_비교_시안.png` 를 실제 코드로 다시 만듦. 알아 둘 점: 현재 앱의 색이 이미 사내 평균에 가까워 '지금 모습'과 눈에 띄는 차이가 작다.
 
+- **사용자 결정 반영 — 새로 넣은·복사한 도형도 스타일 안을 따라감(3번) + 손스케치 '전체' 글자 입력칸 삭제**: ① **도형이 안을 따라감** — 구조형 결과에서 `edits.shapes`(＋글자·사각형·원·화살표, 복사해 붙인 요소 raw)와 `edits.adds`(번호 마커·치수선·방위표·축척·리더선·아이콘·표·이미지)가 안을 바꿔도 같은 안의 색·글씨체로 바뀐다. `applyEdits(svg, edits, { theme, orig })` 가 이 조각의 마크업에만 `applyTheme` 을 입히고(그림 본체는 호출한 쪽이 먼저 입혀 넘김 — 렌더 → 안 → 수정 순서 그대로), 쪽 조립(`composeAll`)·썸네일·단독 화면 세 곳이 모두 `theme` 를 넘긴다. **복사한 요소가 두 번 입혀지지 않게**: 편집 화면용 그림에만 `applyTheme(…, { orig: true })` 로 바뀐 태그마다 원래 값을 `data-o-fill|stroke|stop-color|flood-color|style`·`data-o-ff`(글꼴을 바꾼 태그)로 남기고(`ConceptDiagram` 의 `rendered.editBase`), `SvgEditor.rawOf` 가 복사할 때 `restoreOriginals` 로 안이 입혀지기 전 값으로 되돌려 저장한다(물려받은 색은 가장 가까운 조상의 `data-o-*` 를 씀). 저장·내보내기·쪽 미리보기에는 `data-o-` 가 한 글자도 없다(깨끗한 그림은 따로 만든다). 눌림용 투명 선에는 원래 색 표시를 옮기지 않는다(복원 때 투명이 풀리던 문제를 시험으로 잡아 고침). **시험** — 새 시험 블록 '도형도 안을 따라감' 35개(RED 확인 후 구현, 1380개 통과): 새 화살표·글자·사각형·복사 요소(raw)·표(부속)의 색·글꼴이 avg/mono 를 따름, current·모르는 안은 그대로, 구조 지문·태그 수 불변, 깨끗한 출력에 표시 없음, 예시 6종 × 안 2개의 표시 달기→복원이 글자 하나까지 같음, 편집 화면 그림(도형·복사본 포함)도 정확히 복원. **화면 확인(하니스, 콘솔 오류 0)** — 안 '사내 평균형'에서 새 글자 `#222222→#242021`(Pretendard)·사각형 테두리·화살표 `#E8832A→#CE8733`, '먹색 정돈형'으로 바꾸면 `#202429`·`#DE7F2C`(Noto Sans KR)로 같이 바뀜, 본체 곡선을 복사·붙여넣기한 것이 원본과 같은 색(`#FCD8B9`, 두 번 입혀지지 않음)이고 '지금 모습'이면 원래 색(`#FFE2B8`)으로 돌아감, 쪽 미리보기 마크업에 `data-o-` 없음. **한계** — 이 도형들에 사용자가 직접 고른 색도 같은 계열이면 안을 따라 바뀐다(본체에 직접 칠한 색과 `edits.ops` 로 고친 색은 그대로). 3자리 hex·작은따옴표 속성은 여전히 처리 밖. 안 비교 창 안내 문구도 이에 맞게 고침. ② **손스케치 '전체' 패널의 글자 입력칸 삭제** — 제목·부제·범례(화살표·개구부·코어)·핵심 메시지 1~2 입력칸 7개를 없앴다(그림 위 더블클릭으로 고치는 길이 `sketchTextTargets` 에 이미 있고 '하단 범례/핵심 메시지 표시' 체크는 구조 조작이라 남김). 패널 안내문에 '글자는 그림 위에서 더블클릭'을 한 줄 넣음. 하니스로 확인: 전체 패널에 입력칸 없음·체크 2개·안내문 있음. **남은 것** — '오른쪽 문구 블록' 패널(제목·부제 입력칸, 강조색)은 같은 종류지만 그대로 둠(제목이 비어 있으면 그림에 글자가 없어 더블클릭할 곳이 없음 — 사용자 확인 필요). 제목·부제·범례·핵심 메시지가 비어 있을 때는 그림 위에 글자가 없으므로 '글자' 추가로 넣는다.

diff --git a/docs/손스케치 테스트 안내.md b/docs/손스케치 테스트 안내.md
@@ -169,7 +169,7 @@
 - **칸 나누기**: 1칸(한 장 전체), 좌우 2칸, 위아래 2칸, 가로·세로 3칸, 2×2, 3×2, 2×3, "큰 칸 1 + 작은 칸 2~3" 같은 배치, 또는 가로×세로 칸 수를 직접 지정(최대 6×6). 칸 사이 간격(mm)도 정합니다. **칸 하나를 눌러 고른 뒤 "다이어그램 만들기"를 누르면 그 칸에 들어갑니다**(칸 버튼에 그 칸의 mm 크기가 적혀 있고, 페이지 미리보기에서 칸을 직접 눌러도 됩니다). 칸마다 다른 그림을 넣을 수 있고 "선택한 칸 비우기"로 뺄 수 있습니다. 여러 칸이면 각 그림의 제목이 **칸 제목(소제목 크기)** 으로 칸 위에 붙습니다.
 - **편집기에서 복사한 요소를 페이지 칸에 바로 붙여넣기**: 편집기에서 요소를 골라 **복사**(버튼 또는 Ctrl+C)한 뒤, **페이지 미리보기에서 붙여넣을 칸을 클릭**하고 **Ctrl+V** 하면 됩니다(칸을 누른 뒤에는 편집기 안을 다시 누르지 않아도 됩니다). 칸에 따라 이렇게 붙습니다 — ① **그림이 있는 같은 종류 칸**(손스케치↔손스케치, 구조형↔구조형): 그 칸의 그림에 복사한 요소가 **새 요소로 추가**되고(조금 비켜서, 여러 번 누르면 또 붙음), 붙인 뒤 바로 고를 수 있습니다. ② **빈 칸**: 복사한 요소 **부분이 보이는 그림**으로 들어갑니다(영역 복사와 같은 방식 — 위쪽에 "전체 보기" 안내). ③ **다른 종류의 그림이 있는 칸**: 붙지 않고 "붙여넣을 수 없습니다" 안내만 뜹니다(실수로 덮어쓰지 않게). 칸 복사·영역 복사와 섞어 써도 **가장 나중에 복사한 것**이 붙습니다. 편집기 안에서 Ctrl+V 하면 예전처럼 그 그림에 바로 붙습니다.
 - **동선·구역 문법과 개요표를 사내 참고사례(7부) 기준으로 맞췄습니다(2026-10-26)**: 전후 그림은 `docs/렌더개선_전후/` 의 `배치개념도_선동선_전·후.png`, `개요표_전·후.png`. ① **배치 개념도에 '선명한 선 동선'(`style:"line"`) 추가** — 선 굵기 3.2(흰 테두리 6.4), 화살촉, 점선(`dashed`, 계획·보조 동선), 번호 배지(`no`), 아래 범례 한 줄(`label`, 8자·4개까지). 기존 번지는 띠 스타일은 `style` 이 없으면 그대로입니다. AI 규칙에 색의 뜻(차량·진입 빨강 `#D0342F` · 보행 파랑 `#2F7FBF` · 녹지·산책 초록 `#3E8E41` · 주요 주황 `#F28C28`)과 쓰는 때(도면·평면 위 동선·구역 표시 요청)를 넣었고, 도면 위 표시(AI 이미지 편집)의 지시문 작성 규칙·대체 지시문에도 같은 색 관례를 넣었습니다(**서버를 다시 켜야 반영**). ② **개요표에 '설계개요형'(`style:"doc"`, 3~5열)** — 열 = 구분·항목·내용(·비고), 구분 칸이 비면 위 구분과 한 칸으로 합침, 회색 머리글 띠(`header`), 단위 줄(`unit`), 이름이 소계·합계·총계·전체·계인 줄은 굵게 + 연한 회색 면, 숫자 칸 오른쪽 정렬, 위·아래 굵은 선. 개요표 칸의 예시도 이 형식(건물개요·면적·주차개요)으로 바뀌었고 폼에 열 수(3~5)·머리글·단위 입력이 생겼습니다. 안 해 둔 것: 칸 안 줄바꿈, 항목 글자 벌림(대 지 위 치).
-- **스타일 안 비교(2026-10-26)**: 결과(또는 페이지)가 나온 뒤 위쪽 도구 줄의 **"스타일 안 비교"** 를 누르면 같은 그림이 안 3개(지금 모습 · 참고 A형 파랑 중심 · 먹색 정돈형)로 나란히 뜹니다. 카드를 누르면 바로 적용되고 "지금 모습"을 누르면 원래대로 돌아갑니다(AI 를 부르지 않습니다). 고른 안은 쪽 설정에 저장돼 다시 열어도 유지됩니다. 안이 바꾸는 것은 **포인트 색(주황·파랑·초록 계열)·글자색·글씨체·제목 크기**이고, **손으로 직접 칠한 색과 고친 내용(구조형 결과)은 그대로 남습니다**(손스케치 결과는 직접 고른 색도 같은 계열이면 같이 바뀝니다). 글씨체는 **그 PC에 설치돼 있어야** 쪽 미리보기·비교 창·PNG·저장한 SVG 에서 그 글꼴로 보입니다(Pretendard 도 앱 화면에는 내장이지만 그림은 시스템 글꼴만 씁니다). 설치 안 된 글꼴은 안 카드에 “대체 글꼴로 보입니다”라고 알려 줍니다. 안의 글씨체는 쪽 설정의 글씨체보다 우선하며, “지금 모습”으로 돌아가면 쪽 설정 글씨체가 다시 먹습니다.
+- **스타일 안 비교(2026-10-26)**: 결과(또는 페이지)가 나온 뒤 위쪽 도구 줄의 **"스타일 안 비교"** 를 누르면 같은 그림이 안 3개(지금 모습 · 사내 평균형 주황 중심 · 먹색 정돈형)로 나란히 뜹니다. 카드를 누르면 바로 적용되고 "지금 모습"을 누르면 원래대로 돌아갑니다(AI 를 부르지 않습니다). 고른 안은 쪽 설정에 저장돼 다시 열어도 유지됩니다. 안이 바꾸는 것은 **포인트 색(주황·파랑·초록 계열)·글자색·글씨체·제목 크기**이고, **손으로 직접 칠한 색과 고친 내용(구조형 결과)은 그대로 남습니다**(손스케치 결과는 직접 고른 색도 같은 계열이면 같이 바뀝니다). 글씨체는 **그 PC에 설치돼 있어야** 쪽 미리보기·비교 창·PNG·저장한 SVG 에서 그 글꼴로 보입니다(Pretendard 도 앱 화면에는 내장이지만 그림은 시스템 글꼴만 씁니다). 설치 안 된 글꼴은 안 카드에 “대체 글꼴로 보입니다”라고 알려 줍니다. 안의 글씨체는 쪽 설정의 글씨체보다 우선하며, “지금 모습”으로 돌아가면 쪽 설정 글씨체가 다시 먹습니다.
 - **이미지로 만드는 방식을 4가지로 줄였습니다(2026-10-26, 사용자 결정)**: 평면 단순화 · 자유 해석 · 분석 축측도를 선택지에서 뺐습니다(참고삽도·사내 참고사례 근거가 약함). 지금 이미지로 만드는 방식은 **도면 위 표시 · 건물 형태 읽기 · 배치도 읽기(배치 개념도) · 손스케치 정리**입니다. 평면도를 올리면 항상 도면 위 표시로 가고, 입체·수채 그림처럼 제공하지 않는 그림은 '지원하는 종류로 판단되지 않았다'는 안내가 나옵니다. 손스케치를 직접 고르면 입체 그림 판단과 상관없이 읽습니다. 코드와 예전에 만든 결과(평면·자유 해석·축측도)는 그대로 열리고 고쳐집니다.
 - **만들 수 있는 종류를 회사 삽도 기준으로 줄였습니다(2026-10-26)**: 이 탭은 회사에서 많이 쓰는 삽도(참고삽도 6건 137쪽 분류, `docs/다이어그램탭_개선점_및_카드보드_설계안.md` 6부)를 내 소재 이미지·데이터로 비슷하게 만들어 작업을 편하게 하는 용도입니다. 참고에서 거의 나오지 않는 **프로그램 버블도(0쪽)와 층별 조닝도 평면 띠형(1~2쪽)은 종류 선택·종류 안내 카드·자동 판별·"내용 읽기"에서 뺐습니다**(코드와 예전에 만든 결과는 그대로 열리고 고쳐집니다). 지금 설명으로 만드는 종류는 **배치 개념도 · 매스 과정도 · 개요표 · 카드 보드**, 이미지로 만드는 방식은 도면 위 표시 · 평면 단순화 · 건물 형태 읽기 · 손스케치 정리 · 자유 해석 · 분석 축측도(안내 카드 10장)입니다. 테스트 버튼의 예시는 손스케치 · 배치 개념도 · 매스 과정도 · 개요표입니다.
 - **매스 과정도를 참고삽도의 '개념 소도식' 모양으로 다시 만들었습니다(2026-10-26)**: 수정 전후 그림은 `docs/렌더개선_전후/매스과정도_전.png`·`매스과정도_후.png`. 단계마다 위에 **"STEP n" 박스 + 한 줄 제목 띠**(이 단계가 하는 일을 한글로), 매스 옆에 **프로그램 이름 지시선**(점선 + 아이콘 칩, 색을 주면 그 색 실선), 색을 칠한 매스는 **면마다 밝기가 다른 입체**, **진입·동선 화살표**(주황 주요 흐름 · 파랑 사람·접근 · 초록 자연·환경), **흐린 주변 매스**(칸 밖으로 번지면 잘림). 모두 선택 항목이라 예전 결과도 그대로 열립니다. 지시선 이름은 그림에서 더블클릭해 고칩니다. AI 에게는 요청·자료에 프로그램 이름·흐름이 있을 때만 쓰라고 했습니다.

diff --git a/docs/superpowers/specs/2026-10-26-스타일안-design.md b/docs/superpowers/specs/2026-10-26-스타일안-design.md
@@ -53,10 +53,10 @@ THEME = { id, label, source,        // source: 어느 참고삽도 건에서 뽑
 | id | 이름 | a1 | a2 | a3 | ink | 글씨체 |
 |---|---|---|---|---|---|---|
 | `current` | 지금 모습 | — | — | — | — | 맑은 고딕(지금 그대로) |
-| `blue` | 참고 A형 — 파랑 중심 | `#DFA837` | `#2F4E9A` | `#7BA23A` | `#231815` | Pretendard (참고 A 의 Freesentation 은 §9, 사내 보드 기본 글꼴과 같은 계열) |
+| `avg` | 사내 평균형 — 주황 중심 | `#D78B31` | `#266BB0` | `#7BB728` | `#231F20` | Pretendard |
 | `mono` | 먹색 정돈형 — 포인트 하나 | `#E8832A` | `#5F6670` | `#8A9097` | `#1F2328` | Noto Sans KR |
 
-`titleK`: `current` 1, `blue` 1.1(참고 A 의 큰 제목 위계), `mono` 1. (실제 값은 구현 중 눈으로 보고 조정.)
+`titleK`: 세 안 모두 1. (실제 값은 구현 중 눈으로 보고 조정.)
 안을 더 늘리는 것은 나중에 `THEMES` 목록에 항목을 더하면 된다(코드 구조는 안 개수와 무관). 참고 D·E·F형(주황·청록), B·C형(주황·초록) 시안은 빼기로 했다 — 시안 이미지는 `docs/스타일안_시안/안3종_비교_시안.png` 에 3개만 남긴다.
 
 ## 5. 적용 방식 (1단계)
@@ -130,4 +130,4 @@ THEME = { id, label, source,        // source: 어느 참고삽도 건에서 뽑
 - '지금 모습'은 글씨체를 건드리지 않는다(새 쪽의 기본 글씨체는 Pretendard 이므로 명세 표의 '맑은 고딕'은 틀렸음).
 - 글꼴 설치 확인은 `document.fonts.check` 가 아니라 캔버스 글자 폭 비교(`fontcheck.js`).
 - 검토(독립 검토자) 반영: 거의 흰 옅은 색은 무채색으로 보고(채도<0.5 이고 명도>0.93), 명도는 기준색→안의 색, 0→0·1→1 구간 선형 대응으로 옮긴다(옅은 면이 흰색으로 쏠리지 않게). 손스케치 편집 화면의 선택 틀·회전 손잡이·강조선(주황)은 `data-ui` 표시를 붙여 안을 입히지 않는다. 비교 창이 열려 있는 동안 뒤 화면의 단축키(방향키·Delete·Esc·Ctrl+S 등)는 막고, 창은 `role="dialog"`·초점 가두기·초점 복원을 갖는다. 글꼴 확인은 SVG 이미지에서 실제로 먹는지 픽셀로 비교한다(`fontRendersInSvgImage`).
-
+- **2026-10-26 사용자 결정**: 안 2번을 '참고 A형(파랑 중심)'에서 **'사내 평균형(주황 중심)'** 으로 바꿨다(id `blue` → `avg`, 색은 사내 참고사례 PDF 728건의 포인트색 가중 평균 `#D78B31`·`#266BB0`·`#7BB728`). 예전에 저장한 `blue` 는 모르는 값이라 지금 모습으로 동작한다. 제목 배율은 1. 현재 앱의 색이 이미 사내 평균에 가까워 '지금 모습'과 차이가 작다(주황이 약간 차분, 파랑이 진함, 초록이 연두 쪽).
